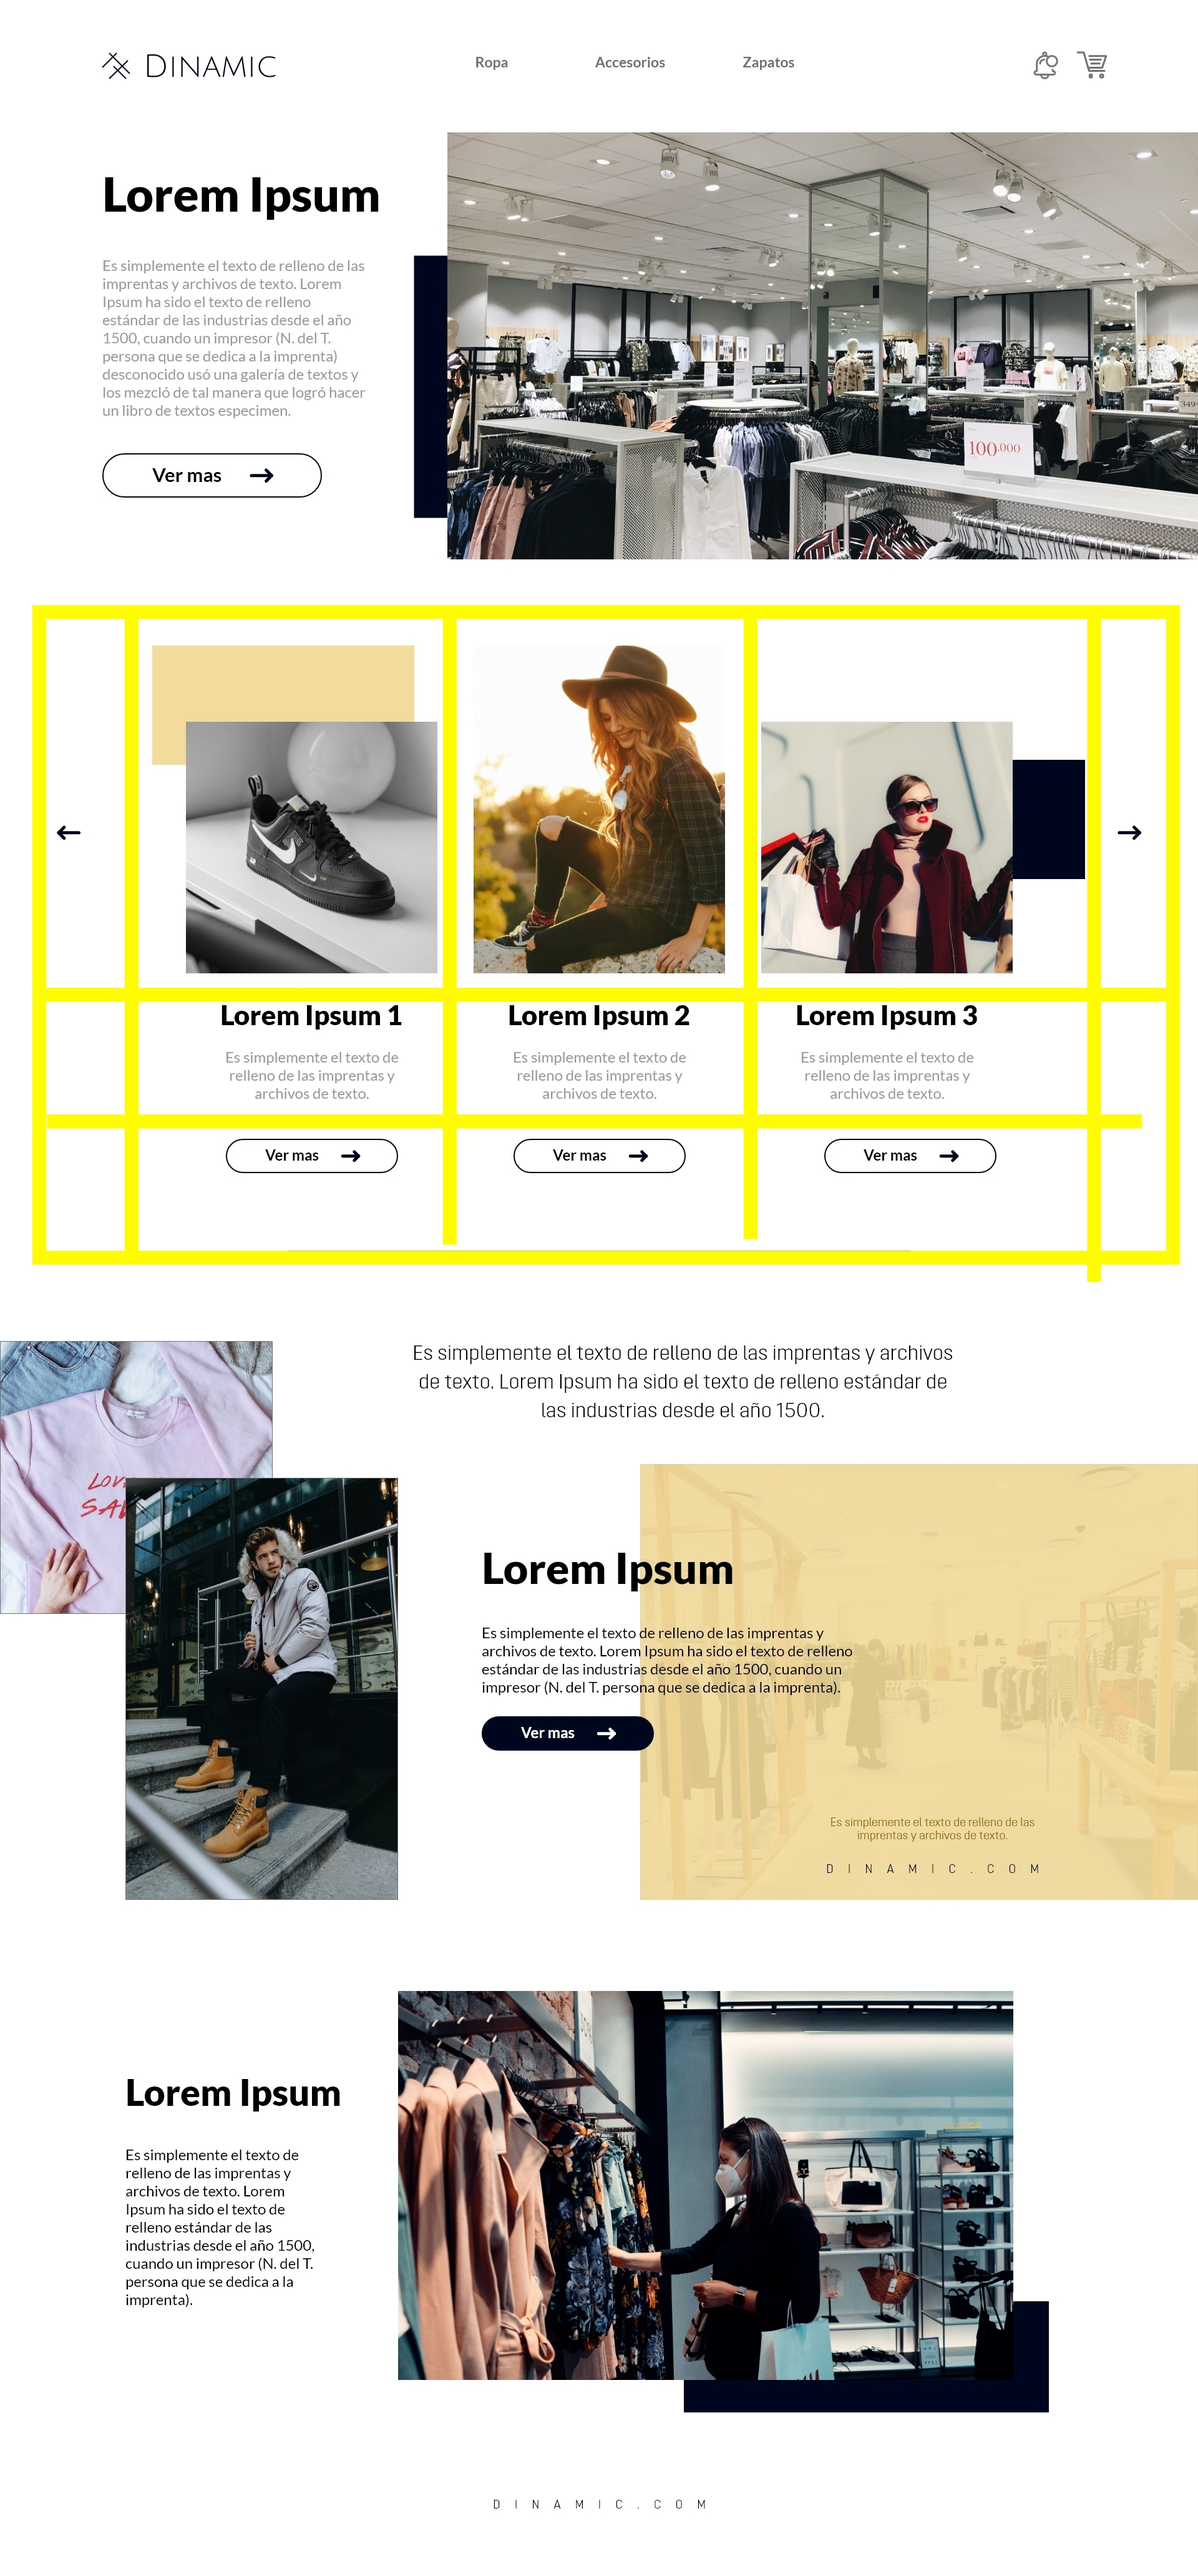
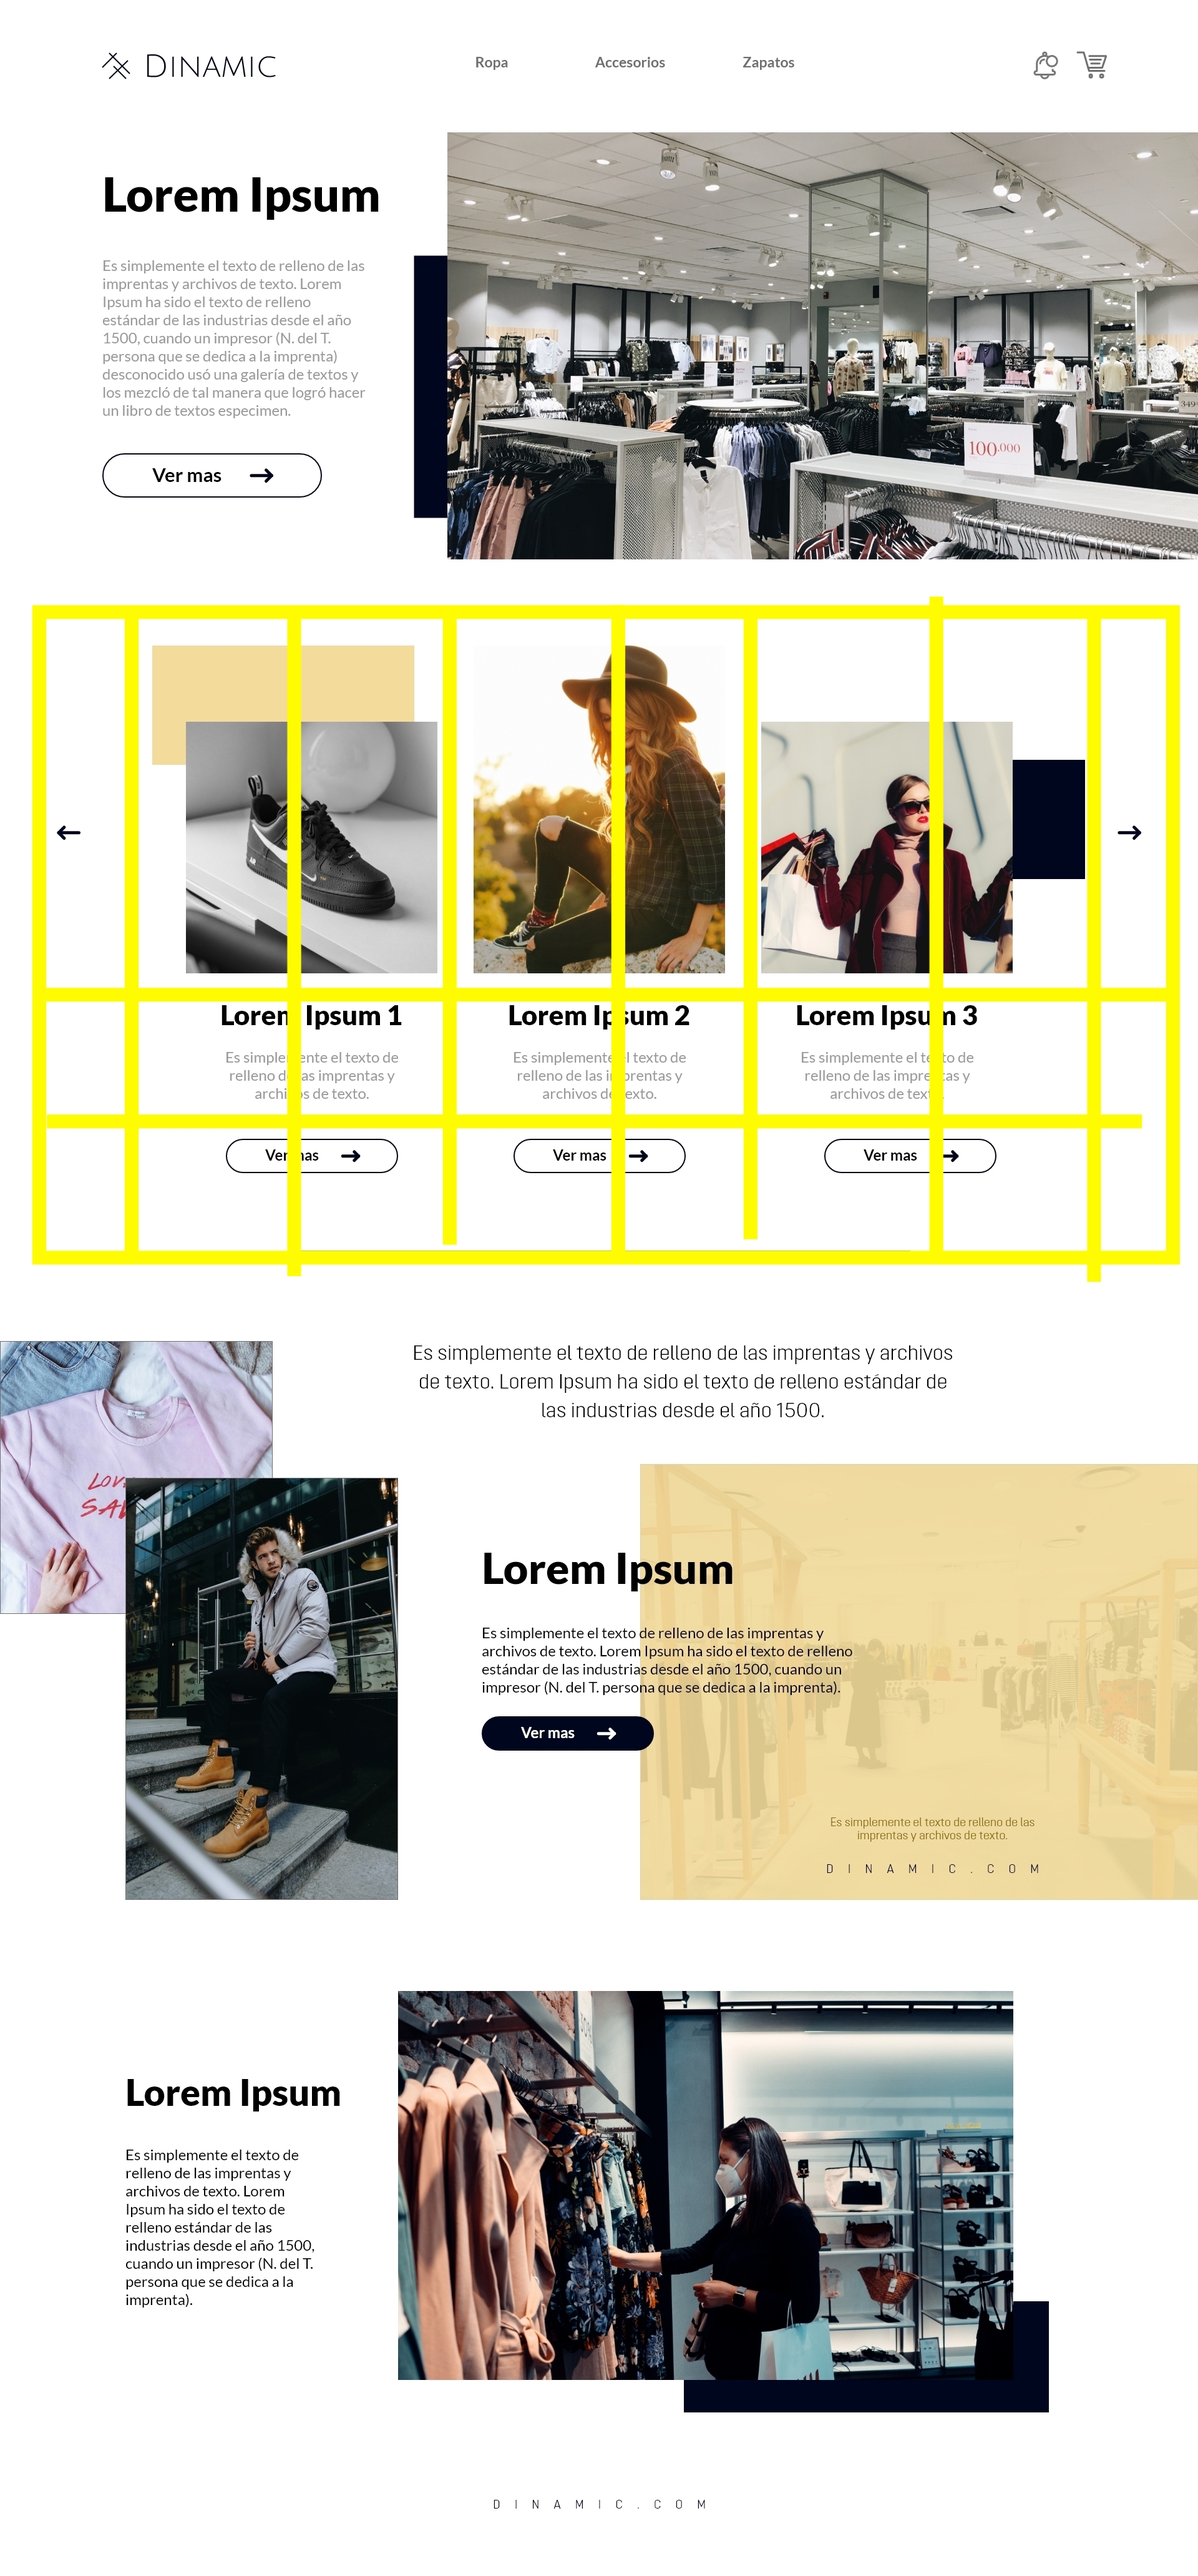
just section missing

Changed region(s): [[0.75, 0.2482, 0.8125, 0.4964], [0.5, 0.2172, 0.5312, 0.4964], [0.2188, 0.2482, 0.25, 0.4964]]

diff --git a/styles.css b/styles.css
@@ -5,7 +5,7 @@
 }
 body{
     margin: 0;
-    
+    font-family: 'Roboto', sans-serif;
 }
 
 .header{
@@ -27,6 +27,7 @@ body{
 }
 .header-item:nth-of-type(2){
     display: flex;
+    color: grey;
     justify-content: space-evenly;
     align-items: center;
     font-size: 25px;
@@ -36,9 +37,12 @@ body{
     justify-content: flex-end;
     align-items: center;
     margin-right: 40px;
-    
+}
+.logos{
+    margin: 0px 10px
 }
 .body{
+    padding: 0px 0px 0px 30px;
     background-color: yellow;
     display: grid;
     grid-template-columns: repeat(3, 1fr);
@@ -60,10 +64,23 @@ body{
     display: flex;
     flex-direction: column;
     justify-content: space-evenly;
+    padding: 0px 30px;
+}
+.body-item:nth-of-type(1) p{
+text-align: left;
+padding: 0px 70px;
+margin: 0;
+
+}
+.body-item:nth-of-type(1) h2{
+    font-size: 65px;
+    margin: 50px 0px 10px 0px;
+
 }
 .body-item:nth-of-type(2){
     grid-column: 2 / span 2;
-    text-align: center;
+   text-align: end;
+
 }
 .body-item h2{
     font-size: 50px;
@@ -74,17 +91,151 @@ body{
     color: #777777;
 }
 .body-item-child{
+    height: 60px;
+    width: 300px;
     display: flex;
     justify-content: center;
-    border: 1px black solid;
+    border: 2px black solid;
     border-radius: 100px;
-    width: 350px;
     position: relative;
     margin: 0 auto;
     font-size: 30px;
+    align-items: center;
 }
 .body-item-child p{
-    margin: 12px;
     color: black;
+    padding: 30px 50px;
 }
 
+.slides{
+    margin-top: 50px;
+    display: grid;
+    gap: 15px 10px;
+    grid-template-columns: repeat(8, 1fr);
+    grid-template-rows: 530px 150px 150px ;
+    background-color: yellow;
+    justify-items: center;
+}
+
+.slide-item{
+    background-color: lightblue;
+    border: 1px solid red;
+}
+.slide-item:nth-of-type(1){
+    grid-column: 1 / span 1;
+    grid-row: 1 / span 3;
+    align-self: center;
+}
+.slide-item:nth-of-type(2){
+    grid-column: 2 / span 2;
+    justify-self: end;
+    align-self: end;
+}
+.slide-item:nth-of-type(3){
+    grid-column: 4 / span 2;
+}
+.slide-item:nth-of-type(4){
+    grid-column: 6 / span 2;
+    justify-self: start;
+    align-self: end;
+}
+.slide-item:nth-of-type(5){
+    grid-column: 8 / span 1;
+    grid-row: 1 / span 3;
+    align-self: center;
+}
+.slide-item:nth-of-type(6){
+    grid-column: 2 / span 2;
+    text-align: center;
+
+}
+.slide-item:nth-of-type(7){
+    grid-column: 4 / span 2;
+    text-align: center;
+
+}
+.slide-item h6{
+    font-size: 40px;
+    margin: 0;
+}
+.slide-item p{
+    margin: 0;
+    padding: 15px 50px;
+    font-size: 20px;
+}
+.slide-item:nth-of-type(8){
+    grid-column: 6 / span 2;
+    text-align: center;
+
+}
+.slide-item:nth-of-type(9){
+    grid-column: 2 / span 2;
+
+}
+.slide-item:nth-of-type(10){
+    grid-column: 4 / span 2;
+
+}
+.slide-item:nth-of-type(11){
+    grid-column: 6 / span 2;
+
+}
+
+.slide-item-child{
+    height: 50px;
+    width: 250px;
+    display: flex;
+    justify-content: center;
+    border: 2px black solid;
+    border-radius: 100px;
+    position: relative;
+    margin: 0 auto;
+    font-size: 30px;
+    align-items: center;
+}
+.section{
+    height: 900px;
+    margin-top: 30px;
+    background-color: lightblue;
+}
+.footer{
+    padding: 30px;
+    margin-top: 30px;
+    display: grid;
+    gap: 15px;
+    background-color: yellow;
+    grid-template-columns: repeat(3, 1fr);
+    grid-template-rows: 900px;
+}
+.footer-item{
+    background-color: lightblue;
+}
+.footer-item:nth-of-type(1){
+    grid-column: 1 / span 1;
+    align-self: center;
+    text-align: center;
+    padding: 120px;
+}
+.footer-item:nth-of-type(1) h3{
+    font-size: 55px;
+}
+.footer-item:nth-of-type(1) p{
+    font-size: 23px;
+    padding: 0px 30px;
+    text-align: start;
+}
+.footer-item:nth-of-type(2){
+    grid-column: 2 / span 2;
+    justify-self: start;
+    align-self: center;
+}
+.footer-item:nth-of-type(3){
+    grid-column: 1 / -1;
+    text-align: center;
+}
+.footer-item:nth-of-type(3) p{
+    letter-spacing: 25px;
+    font-size: 20px;
+    font-weight: 100;
+    color: grey;
+}

diff --git a/index.html b/index.html
@@ -4,6 +4,8 @@
     <meta charset="UTF-8">
     <meta name="viewport" content="width=device-width, initial-scale=1.0">
     <link rel="stylesheet" href="styles.css">
+    <link href="https://fonts.googleapis.com/css2?family=Roboto:wght@100;400;500&display=swap" rel="stylesheet">
+
     <title>Ejercicio 2</title>
 </head>
 <body>
@@ -16,9 +18,9 @@
            <p>Accesorios</p>
            <p>Zapatos</p>
         </div>
-        <div class="header-item">
-            <img src="DINAMICA/Icono de notificaciones.svg" alt="">
-            <img src="DINAMICA/Icono carrito de compra.svg" alt="">
+        <div class="header-item logos">
+            <img class="logos" src="DINAMICA/Icono de notificaciones.svg" alt="">
+            <img class="logos" src="DINAMICA/Icono carrito de compra.svg" alt="">
         </div>
     </div>
     <div class="body">
@@ -40,28 +42,68 @@
     </div>
     <div class="slides">
         <div class="slide-item">
-            <img src="" alt="">
+            <img src="DINAMICA/Flechas (2).svg" alt="">
         </div>
         <div class="slide-item">
-            <img src="" alt="">
+            <img src="DINAMICA/andres-jasso-PqbL_mxmaUE-unsplash@2x.png" alt="">
+        </div>
+        <div class="slide-item">
+            <img src="DINAMICA/omar-lopez-9w20MZ0lsK8-unsplash@2x.png" alt="">
+        </div>
+        <div class="slide-item">
+            <img src="DINAMICA/freestocks-_3Q3tsJ01nc-unsplash@2x.png" alt="">
+        </div>
+        <div class="slide-item">
+            <img src="DINAMICA/Flechas (1).svg" alt="">
+        </div>
+        <div class="slide-item">
             <h6>Lorem Ipsum 1</h6>
             <p>Es simplemente el texto de relleno de las imprestas y archivos de texto</p>
         </div>
         <div class="slide-item">
-            <img src="" alt="">
             <h6>Lorem Ipsum 2</h6>
             <p>Es simplemente el texto de relleno de las imprestas y archivos de texto</p>
         </div>
         <div class="slide-item">
-            img src="" alt="">
             <h6>Lorem Ipsum 3</h6>
             <p>Es simplemente el texto de relleno de las imprestas y archivos de texto</p>
         </div>
         <div class="slide-item">
-            <img src="" alt="">
+            <div class="slide-item-child">
+                <p>Ver más</p>
+                <img src="DINAMICA/Flechas (1).svg" alt="">
+            </div>
+        </div>
+        <div class="slide-item">
+            <div class="slide-item-child">
+                <p>Ver más</p>
+                <img src="DINAMICA/Flechas (1).svg" alt="">
+            </div>
+        </div>
+        <div class="slide-item">
+            <div class="slide-item-child">
+                <p>Ver más</p>
+                <img src="DINAMICA/Flechas (1).svg" alt="">
+            </div>
+        </div>
+
+    </div>
+    <div class="section">
+    </div>
+    <div class="footer">
+        <div class="footer-item">
+            <h3>Lorem Ipsum</h3>
+            <p>Es simplemente el texto de relleno de las imprentas y archivos de texto.
+                Lorem Ipsum ha sido elt exto de relleno estándar de las industrias desde
+                el año 1500, cuando un impresor (N. del T. persona que se dedica a la imprenta).
+            </p>
+        </div>
+        <div class="footer-item">
+            <img src="./DINAMICA/arturo-rey-5yP83RhaFGA-unsplash@2x.png" alt="">
+        </div>
+        <div class="footer-item">
+            <p>DINAMIC.COM</p>
         </div>
     </div>
-
-    
 </body>
 </html>
